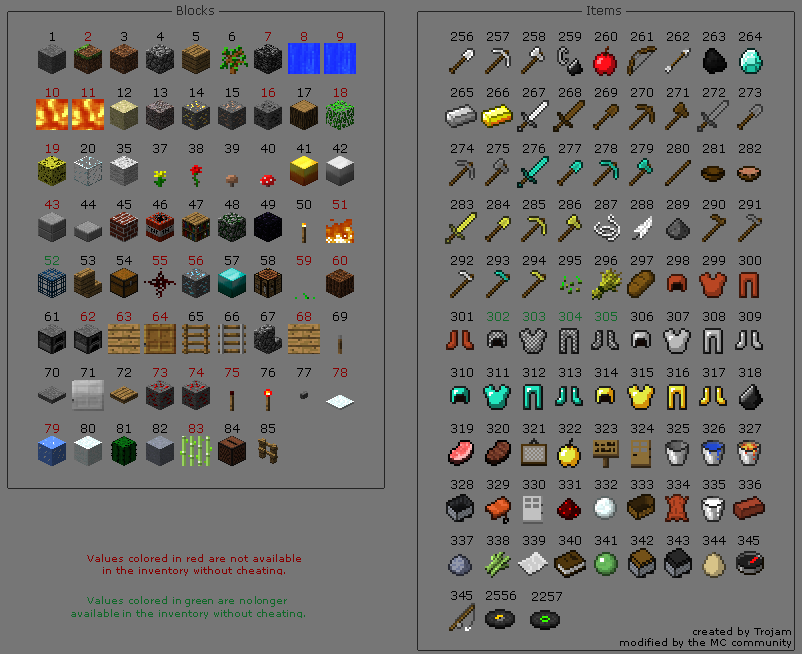
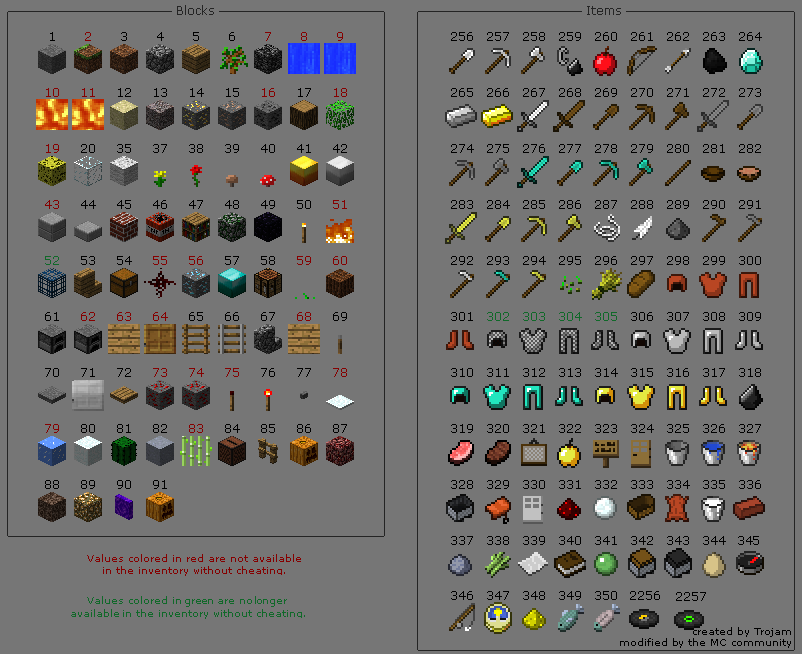
updatet items from halloween update

Changed region(s): [[0.5923, 0.8869, 0.8728, 0.9786], [0.0312, 0.7339, 0.2182, 0.7951], [0.3429, 0.6422, 0.4676, 0.7339]]

diff --git a/Classes/IJInventoryItem.m b/Classes/IJInventoryItem.m
@@ -65,7 +65,7 @@
 	
 	int index = 0;
 	
-	if (itemId <= 85)
+	if (itemId <= 91)
 	{
 		if (itemId <= 20)
 			index = itemId - 1; // first item is 1
@@ -75,7 +75,7 @@
 			index = itemId - (37 - 21);
 		atlasOffset = NSMakePoint(36, 75);
 	}
-	else if (itemId >= 256 && itemId <= 346)
+	else if (itemId >= 256 && itemId <= 350)
 	{
 		index = itemId - 256;
 		atlasOffset = NSMakePoint(445, 23+52);
@@ -83,25 +83,25 @@
 	else if (itemId == 2256)
 	{
 		index = 0;
-		atlasOffset = NSMakePoint(445+pixelsPerColumn + 4, 23+52 + 10 * pixelsPerRow);
+		atlasOffset = NSMakePoint(445+pixelsPerColumn + 147, 23+52 + 10 * pixelsPerRow);
 	}
 	else if (itemId == 2257)
 	{
 		index = 0;
-		atlasOffset = NSMakePoint(445+pixelsPerColumn + 49, 23+52 + 10 * pixelsPerRow);
+		atlasOffset = NSMakePoint(445+pixelsPerColumn + 192, 23+52 + 10 * pixelsPerRow);
 	}
 	else
 	{
 		NSLog(@"%s error: unrecognized item id %d", __PRETTY_FUNCTION__, itemId);
 		return nil;
 	}
-
+	
 	atlasOffset.x += pixelsPerColumn * (index % itemsPerRow);
 	atlasOffset.y += pixelsPerRow    * (index / itemsPerRow);
 	
 	NSRect atlasRect = NSMakeRect(atlasOffset.x, atlasOffset.y, itemImageSize.width, itemImageSize.height);
 	
-
+	
 	NSImage *atlas = [NSImage imageNamed:@"DataValuesV110Transparent.png"];
 	NSImage *output = [[NSImage alloc] initWithSize:itemImageSize];
 	
